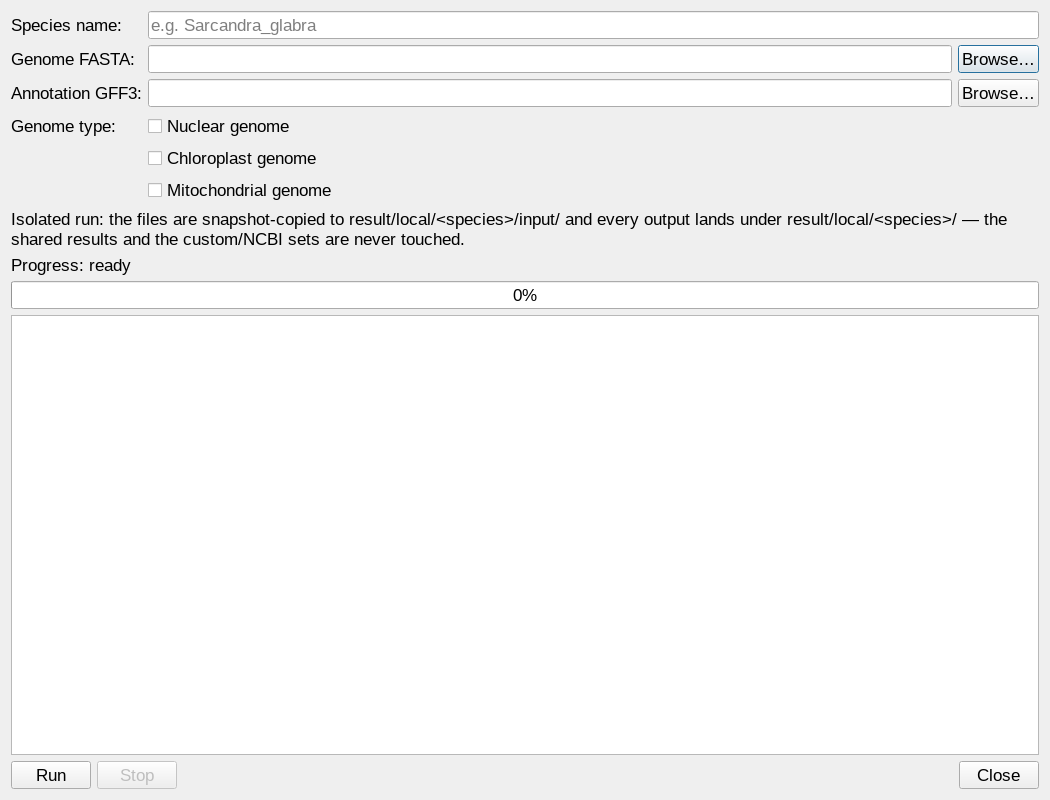
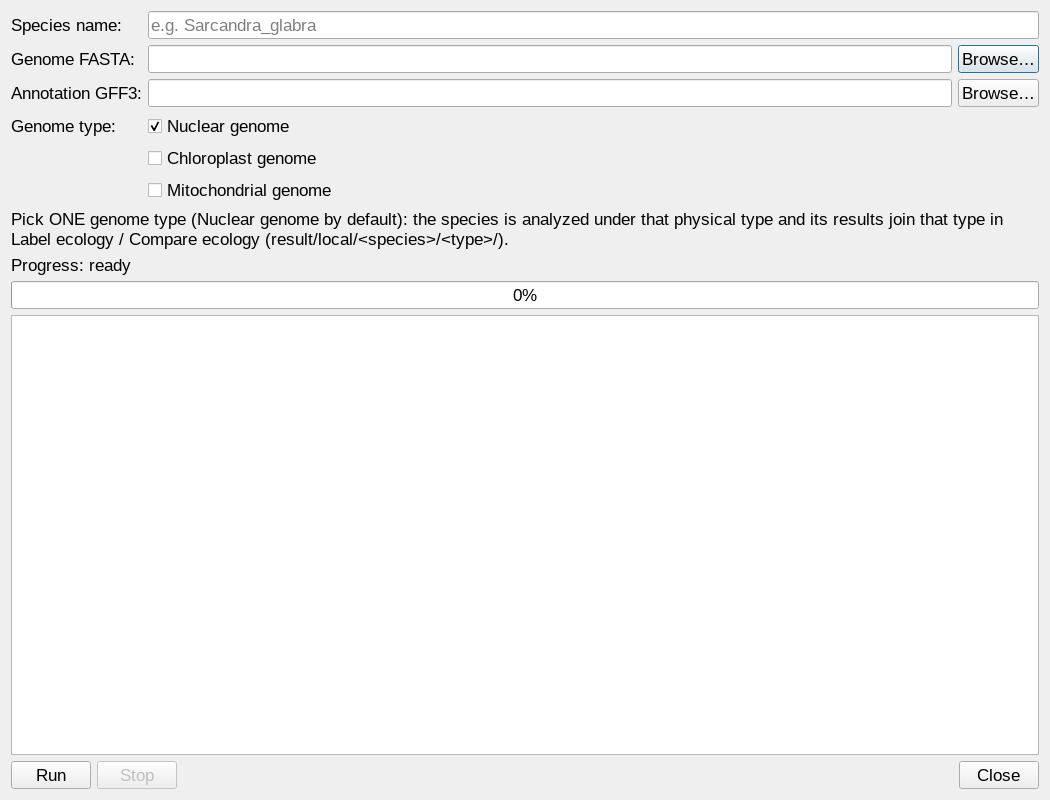
docs: v1.7.0 Run-local species merge into the genome type they were run under

Changed region(s): [[0.0, 0.25, 0.9752, 0.3125]]

diff --git a/docs/conf.py b/docs/conf.py
@@ -9,8 +9,8 @@ author = "sunshadeCisseeker developers"
 copyright = "2026, sunshadeCisseeker developers"
 
 # The short X.Y version and the full release version.
-version = "v1.6.1"
-release = "v1.6.1"
+version = "v1.7.0"
+release = "v1.7.0"
 
 extensions = [
     "sphinx.ext.autosectionlabel",

diff --git a/docs/content/GUI.rst b/docs/content/GUI.rst
@@ -35,9 +35,9 @@ There are exactly six sliding pages, in this order:
    * - **Mitochondrial genome**
      - runs the mitochondrial part (steps 01-06)
    * - **Label ecology**
-     - assigns the sun/shade labels to the merged datasets (cross-genome step 06), one label sheet per genome type; checkboxes (incl. Local genome) select the types to label
+     - assigns the sun/shade labels to the merged datasets (cross-genome step 06), one label sheet per genome type; checkboxes select the types to label
    * - **Compare ecology**
-     - runs the cross-genome ecology comparison (steps 07-09; requires Label ecology first); checkboxes (incl. Local genome) select the genome types to merge
+     - runs the cross-genome ecology comparison (steps 07-09; requires Label ecology first); checkboxes select the genome types to merge
 
 Each analysis page shows the step description, the result directory hint and
 a live log panel. The three genome pages additionally offer an **NCBI API key
@@ -53,11 +53,11 @@ persists), while a *missing* key defaults to ``2`` again on the next
 additionally offer genome-type checkboxes (only **Nuclear genome** starts
 checked): they become the ``--label-types`` / ``--ecology-types`` flags of
 the respective runs, so both steps analyze exactly the selected genome
-types. Since v1.4.0 a fourth checkbox, **Local genome**, merges the species
-staged by *Tools → Run local* (``result/local/<species>/``) into the
-labeling and the comparison as the pseudo type ``local_genome`` (label them
-via a ``local_genome`` sheet in the label workbook). A screenshot of every
-page and popup, with explanations, is on the :doc:`Screenshots` page.
+types. The three checkboxes are the three physical types only: a species
+analyzed by *Tools → Run local* joins the genome type it was run under
+(see below), so there is no separate pseudo-type to select. A screenshot
+of every page and popup, with explanations, is on the :doc:`Screenshots`
+page.
 
 Menu bar
 --------
@@ -80,20 +80,22 @@ Run local (single-species analysis)
 **Tools → Run local...** analyzes **one species on your disk** in an
 **isolated workspace** — nothing else is read, and nothing outside is
 written. Enter a species name, pick its genome **FASTA** and annotation
-**GFF3**, tick the genome type(s) to analyze (**nuclear / chloroplast /
-mitochondrial** — at least one must be ticked) and press **Run**:
+**GFF3**, choose **one** genome type (**nuclear / chloroplast /
+mitochondrial** — Nuclear genome is preselected; the choice is exclusive,
+ticking one unticks the others) and press **Run**:
 
 * The two files are snapshot-copied into
   ``result/local/<species>/input/`` (the original ``.fa/.fasta/.gz``
   suffixes are kept, so gzipped inputs stay compressed). Re-running the
   same species starts from a clean workspace.
-* For each ticked type the standard steps **04–06** run sequentially
+* The chosen type runs the standard steps **04–06** sequentially
   (promoter extraction → merge → CRE scan) with the live log shown in the
   dialog. NCBI and download steps are forced off and the **genome-size cap
   is lifted** for the explicitly chosen file, whatever
   ``quickstart_config.yml`` says.
-* **Outputs land under** ``result/local/<species>/<type>_genome/NN_step/``
-  with the **same file names and column layouts as a normal run** — for
+* **Outputs land under** ``result/local/<species>/<genome_type>/NN_step/``
+  (e.g. ``result/local/<species>/nuclear_genome/...``) with the **same file
+  names and column layouts as a normal run** — for
   example ``04_promoter/nuclear_promoter_pair_summary.xlsx``,
   ``05_ciselement_input/all_species_nuclear_id_map.xlsx``,
   ``06_ciselement/nuclear_ciselement_results.xlsx`` — so the tables can be
@@ -102,8 +104,17 @@ mitochondrial** — at least one must be ticked) and press **Run**:
   ``Custom_genome_fa_gff`` set are **never read or modified**: other
   species are neither re-analyzed nor included, and later normal runs are
   not affected by the local species.
-* Ticking several types runs them one after another; **Stop** interrupts
-  the current run and the queue.
+* If the species already has Run-local results (a
+  ``result/local/<species>/<genome_type>/06_ciselement`` folder exists),
+  the dialog **locks the type choice to that genome type** and says so:
+  re-running updates the same type, and Label ecology / Compare ecology
+  keep merging the species into that type. To switch a species to another
+  genome type, delete its folder under ``result/local/<species>/`` first.
+* **Label ecology / Compare ecology** (since v1.7.0) merge the staged
+  species into the genome type it was run under — label it on that type's
+  sheet of ``config/species_ecology_labels.xlsx``, and its 05/06 outputs
+  join that type's comparison rows automatically. There is no separate
+  pseudo-type to tick anywhere.
 
 Custom genome lists
 -------------------

diff --git a/docs/content/Screenshots.rst b/docs/content/Screenshots.rst
@@ -57,17 +57,16 @@ editors and the remaining functions.
    The **Label ecology** page (cross-genome step 06): assigns the
    ``sun`` / ``shade`` labels from
    ``config/species_ecology_labels.xlsx`` (one sheet per genome type:
-   ``nuclear_genome`` / ``chloroplast_genome`` / ``mitochondrial_genome``
-   and, since v1.4.0, an optional ``local_genome`` sheet for the Run-local
-   species) to the merged NCBI+custom datasets and writes
+   ``nuclear_genome`` / ``chloroplast_genome`` / ``mitochondrial_genome``)
+   to the merged NCBI+custom datasets and writes
    ``result/ecology_compare/06_label_ecology/species_ecology_assignment.xlsx``
    (``Assignment`` / ``Group_counts`` / ``Unlabeled`` sheets) — the single
    label source for the comparison. The **genome-type checkboxes** select
    which types get labeled (only **Nuclear genome** starts checked;
-   unchecked types are skipped); **Local genome** additionally labels the
-   species staged by Tools → Run local. Run it
-   after the genome pages and before Compare ecology; re-run only this page
-   after editing the label table.
+   unchecked types are skipped); species staged by Tools → Run local are
+   labeled as part of the genome type they were run under (same sheet).
+   Run it after the genome pages and before Compare ecology; re-run only
+   this page after editing the label table.
 
 .. figure:: ../_static/screenshots/06-compare-ecology.png
    :width: 1360
@@ -77,8 +76,8 @@ editors and the remaining functions.
    Kruskal-Wallis plus pairwise Wilcoxon with Benjamini-Hochberg correction
    (08) — and the publication figures (09). The genome-type checkboxes
    match the Label ecology page (only **Nuclear genome** starts checked):
-   unchecked types are left out of the merge, and **Local genome** merges
-   the Tools → Run local species as one extra group.
+   unchecked types are left out of the merge, and the Tools → Run local
+   species join the genome type they were run under.
    It requires the Label ecology page to have run first. Results land under
    ``result/ecology_compare/``.
 
@@ -126,14 +125,17 @@ The three parameter/table editors open as popups from the **Tools** menu.
    :width: 1040
 
    **Tools → Run local…** — analyze ONE species from a local FASTA + GFF3 in
-   an isolated workspace: enter the species name, pick the two files, tick
-   the genome type(s) (nuclear / chloroplast / mitochondrial) and press Run.
+   an isolated workspace: enter the species name, pick the two files, choose
+   ONE genome type (nuclear / chloroplast / mitochondrial — the choice is
+   exclusive, and a species with existing Run-local results is locked to the
+   type it was run under) and press Run.
    The files are snapshot-copied to ``result/local/<species>/input/`` and
-   every 04–06 output lands under ``result/local/<species>/<type>_genome/``
+   every 04–06 output lands under
+   ``result/local/<species>/<genome_type>/`` (e.g. ``nuclear_genome/``)
    with the standard file names and column layouts (the shared
    ``result/<type>`` trees, the NCBI task lists and the custom set are never
-   touched); ticked types run one after another and Stop interrupts the
-   queue.
+   touched); Label ecology / Compare ecology then merge the species into
+   that physical genome type.
 
 .. figure:: ../_static/screenshots/11-custom-genome-lists.png
    :width: 1040

diff --git a/docs/content/Ecology comparison.rst b/docs/content/Ecology comparison.rst
@@ -11,8 +11,7 @@ Label ecology (step 06)
 
 A standalone step between the per-genome pipelines and the comparison: it
 reads ``config/species_ecology_labels.xlsx`` — one sheet per genome type
-(``nuclear_genome`` / ``chloroplast_genome`` / ``mitochondrial_genome`` and,
-since v1.4.0, an optional ``local_genome`` sheet for the Run-local species;
+(``nuclear_genome`` / ``chloroplast_genome`` / ``mitochondrial_genome``;
 older single-sheet files apply to every type) — and the 05 id maps of the
 selected genome types, and writes ``species_ecology_assignment.xlsx``
 (``Assignment`` / ``Group_counts`` / ``Unlabeled`` sheets) under
@@ -21,26 +20,29 @@ source of ecology labels for steps 07–09, so label changes only require
 re-running this step and then 07–09. Unlabelled species are listed in the
 ``Unlabeled`` sheet and never enter the statistics.
 
-The **Label ecology** GUI page offers checkboxes for the three genome types
-plus **Local genome** (v1.4.0): unchecked types are skipped (the run calls
+The **Label ecology** GUI page offers checkboxes for the three genome types:
+unchecked types are skipped (the run calls
 ``run_all.sh label_ecology --label-types=<comma list>``; the command line
-accepts the same flag). *Local genome* labels the species staged by
-**Tools → Run local** (``result/local/<species>/``) as the pseudo genome
-type ``local_genome``; give it labels by adding a ``local_genome`` sheet to
-the label workbook. Without the flag, only the three physical types are
-labeled.
+accepts the same flag). Since v1.7.0 a species staged by **Tools → Run
+local** (``result/local/<species>/<genome_type>/``) is labeled as part of
+the genome type it was run under — its labels come from that type's sheet,
+and a genome type whose only species are Run-local (no shared 05 output) is
+still labeled. There is no ``local_genome`` sheet or pseudo-type.
 
 Step 07 — merge
 ---------------
 
 The **Compare ecology** GUI page offers the same genome-type checkboxes as
-Label ecology, including **Local genome** (``run_all.sh ecology
---ecology-types=<comma list>``): only the checked types are merged, and
-steps 08–09 follow the types present in the master table, so the comparison
-always matches the labeling selection. *Local genome* merges the isolated
-Run-local outputs under ``result/local/<species>/`` into the master table as
-``local_genome`` rows — every staged species joins the comparison alongside
-the NCBI/custom types.
+Label ecology (``run_all.sh ecology --ecology-types=<comma list>``): only
+the checked types are merged, and steps 08–09 follow the types present in
+the master table, so the comparison always matches the labeling selection.
+Since v1.7.0 the isolated Run-local outputs under
+``result/local/<species>/<genome_type>/`` are merged **into the genome type
+they were run under**: a species present in both the shared set and the
+local set is summed per element (counts and promoter totals scale together,
+so the density metric is unchanged), and a genome type whose only outputs
+are Run-local is still merged. Every staged species therefore joins the
+comparison inside its physical type instead of a separate group.
 
 1. For each selected genome type, merge the per-species element counts
    (``Species_element_counts``) with the per-species **total promoter

diff --git a/docs/content/Changelog.rst b/docs/content/Changelog.rst
@@ -1,6 +1,31 @@
 Changelog
 =========
 
+1.7.0 — Run-local species merge into the genome type they were run under
+--------------------------------------------------------------------------
+
+* The ``local_genome`` pseudo-type is gone. **Tools → Run local** now runs
+  ONE physical genome type (nuclear / chloroplast / mitochondrial): the
+  choice is exclusive (ticking one unticks the others), and a species that
+  already has Run-local outputs is **locked** to the type it was run under,
+  so re-runs and the ecology steps can never split one species across
+  types. Steps 06/07 merge each staged species into that type — Label
+  ecology reads its labels from the type's own sheet of
+  ``config/species_ecology_labels.xlsx``, and Compare ecology merges its
+  05/06 outputs into the type's rows (counts and promoter totals scale
+  together, so the ``element_density`` metric is unchanged). A genome type
+  that only has Run-local species (no shared 05/06 outputs) is handled end
+  to end by both steps.
+* ``Sarcandra glabra`` moved back from the ``local_genome`` sheet to the
+  ``nuclear_genome`` sheet of the shipped label config (it was run under
+  the nuclear type); the ``local_genome`` sheet no longer exists.
+* The Label ecology / Compare ecology pages dropped the *Local genome*
+  checkbox and keep the three physical genome-type checkboxes; the Run
+  local dialog, the page descriptions and this documentation were updated.
+  The ``e2e_local_ecology_1400`` suite now stages the local species under
+  the nuclear type and asserts the nuclear merge (including the
+  local-only-type path).
+
 1.6.1 — Introduction workflow diagram and screenshots refreshed
 -----------------------------------------------------------------
 

diff --git a/docs/content/About sunshadeCisseeker.rst b/docs/content/About sunshadeCisseeker.rst
@@ -4,7 +4,7 @@ About sunshadeCisseeker
 sunshadeCisseeker identifies, annotates and compares promoter
 cis-regulatory elements across sun / shade plants.
 
-The current release is **1.6.1**.
+The current release is **1.7.0**.
 
 Highlights
 ----------
